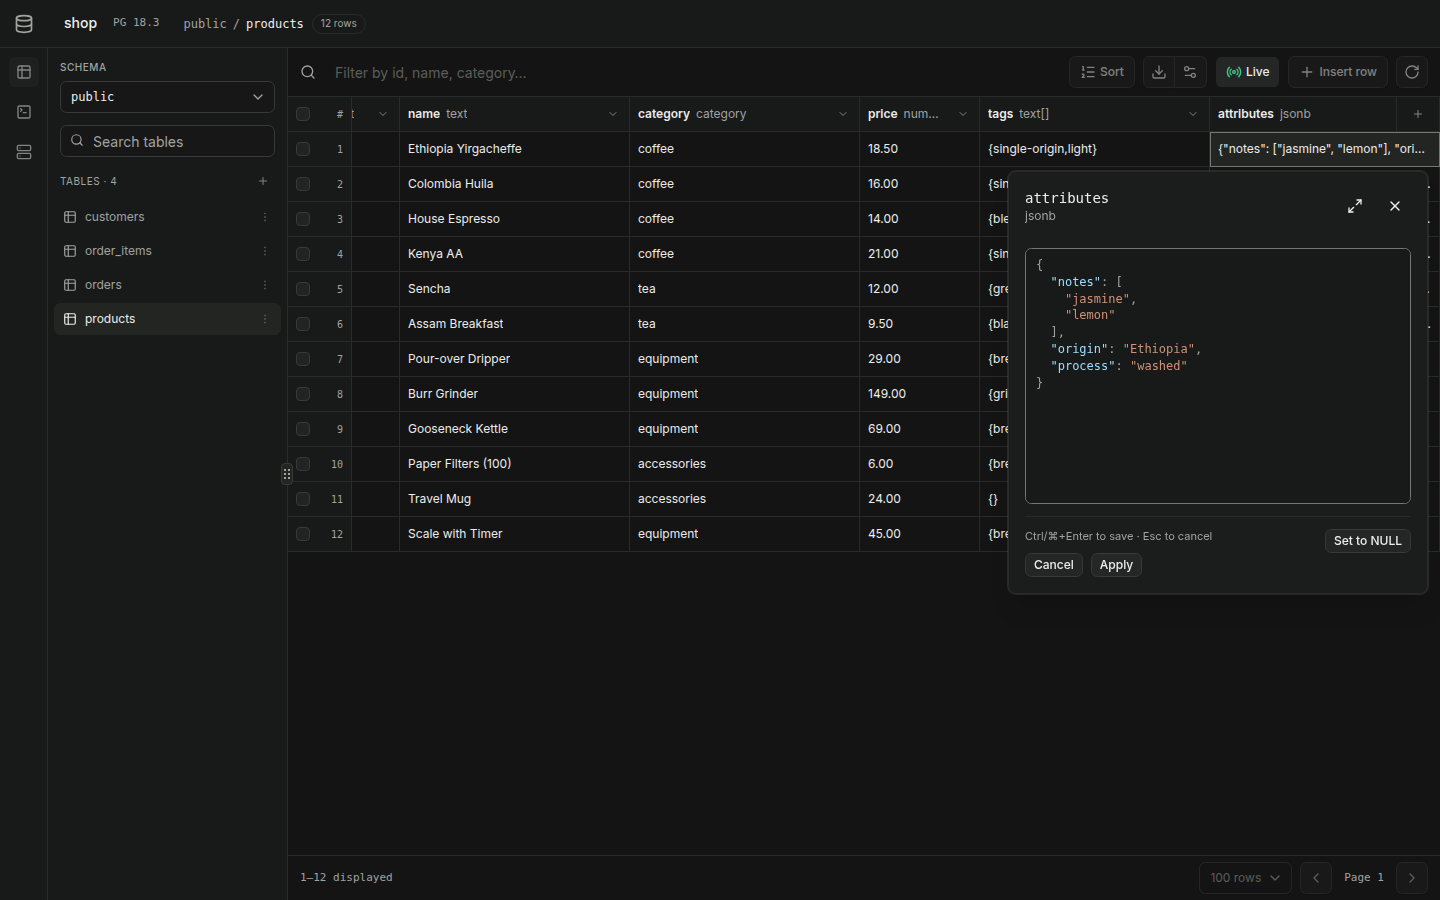
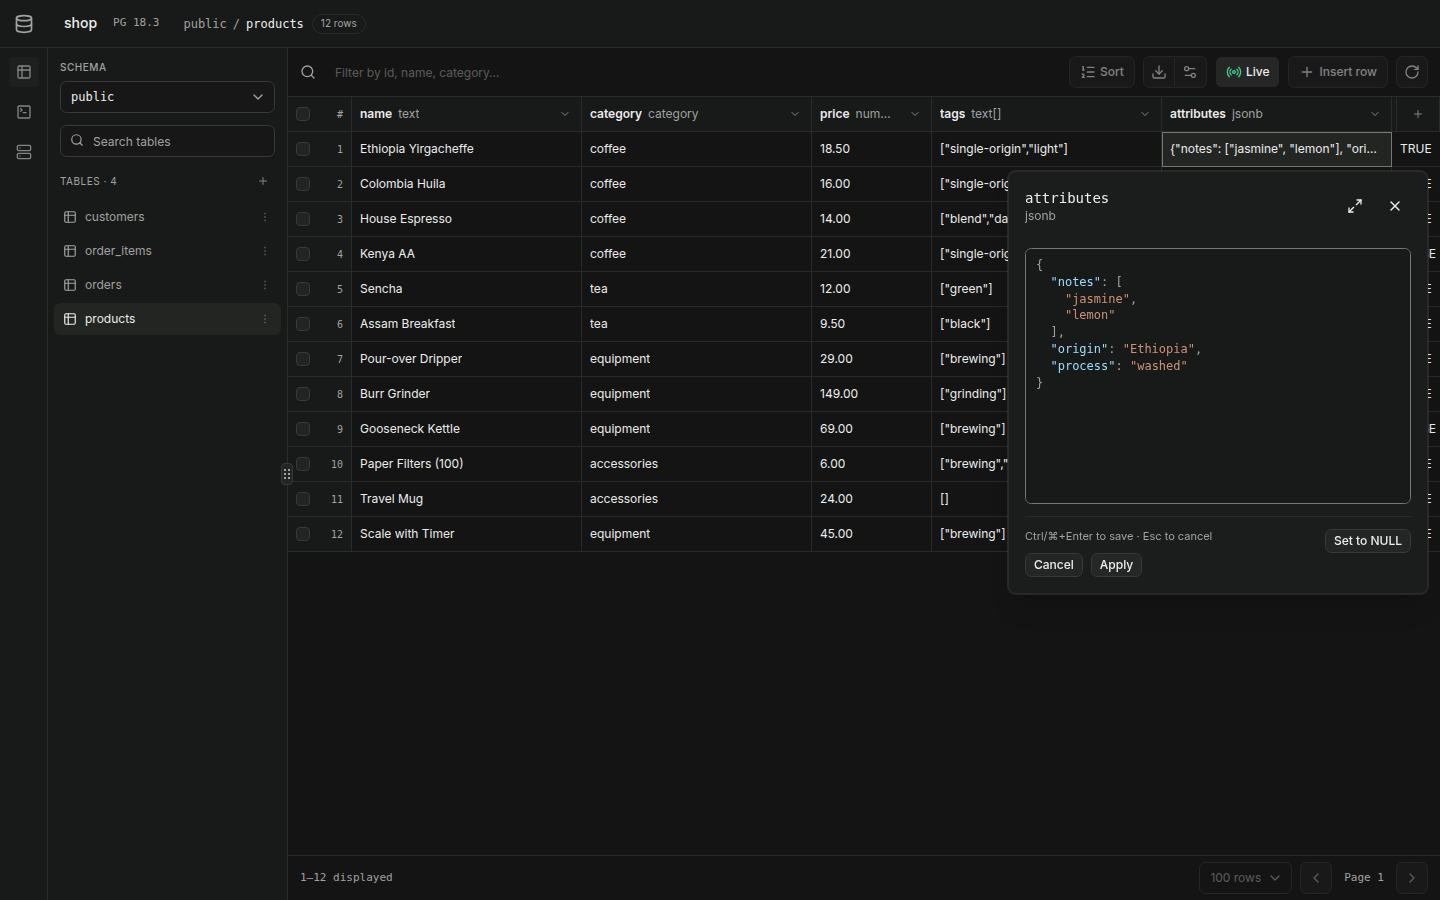
docs: refresh screenshots, add schema diagram, tidy changelog

diff --git a/PLAN.md b/PLAN.md
@@ -12,17 +12,18 @@ PostgreSQL validates. Keep code and tests minimal.
 
 ## Done
 
-- Table editor: exact values, cell/range/paste edits with optimistic row-version conflicts,
-  insert form, FK picker/navigation, filters, multi-sort, live polling, CSV export.
+- Table editor: exact values (arrays shown/edited as JSON), cell/range/paste edits with optimistic
+  row-version conflicts, insert form, FK picker/navigation, filters, multi-sort, live polling, CSV export.
 - Schema editing via previewed SQL: tables, columns, PK, indexes, UNIQUE/CHECK/FK.
 - SQL console with per-tab sessions, transactions, cancel, autosaved draft; snippet library with
   favourites and built-in examples (adapted from Supabase Studio, Apache-2.0).
-- Database workspace: schema diagram, all indexes (drop), query performance (pg_stat_statements), extensions (enable/update/disable) and curated
-  database/role defaults, as previewed SQL.
+- Database workspace: schema diagram, all indexes (drop), query performance (pg_stat_statements),
+  extensions (enable/update/disable) and curated database/role defaults, as previewed SQL.
+- Layout: left rail with three workspaces sharing one resizable side panel.
 - CLI: `npx|bunx @xl0/superbase [url] [--port] [--host] [--no-open]` (unscoped name rejected by npm).
 - Live demo: static build with PGlite in the browser on sample data (GitHub Pages).
 - Releases: `bun run release` → CI stages npm (2FA approve), pushes ghcr.io/xl0/superbase and
-  xl0xl0/superbase images, and creates the GitHub Release. 0.1.1 shipped this way.
+  xl0xl0/superbase images, creates the GitHub Release and redeploys the demo.
 - Connections: global server connection, saved browser profiles, SSL modes, locked mode via
   `DATABASE_URL`, `HOST`/`ORIGIN` for container deployments.
 - Simplification pass (Oct 2026): removed per-browser sessions, validation layer, DDL

diff --git a/README.md b/README.md
@@ -100,6 +100,8 @@ only loads its text; nothing runs until you press Run.
 
 ## Database
 
+The side panel lists the sections:
+
 - **Schema:** a diagram of one schema's tables and foreign keys (including references to other
   schemas); ↗ opens a table.
 - **Indexes:** every index per schema, with definitions; drop with a preview.
@@ -107,6 +109,8 @@ only loads its text; nothing runs until you press Run.
   cache hit rates; enables the extension for you if it's missing (the server must preload it).
 - **Extensions:** enable (choosing the schema), update or disable.
 - **Configuration:** search_path, timezone, timeouts and work_mem as database or role defaults.
+
+![Schema diagram of the shop tables](https://raw.githubusercontent.com/xl0/superbase/master/docs/screenshots/schema-diagram.png)
 
 ![Query performance](https://raw.githubusercontent.com/xl0/superbase/master/docs/screenshots/performance.png)
 

diff --git a/CHANGELOG.md b/CHANGELOG.md
@@ -5,12 +5,13 @@
 ### Added
 
 - A live demo that runs PostgreSQL in the browser (PGlite) on sample data, published to GitHub Pages.
-
 - Schema diagram (Database → Schema): tables, columns and foreign keys of one schema, laid out automatically; ↗ opens a table.
 
 ### Changed
 
 - Array values are shown and edited as JSON (`["a","b"]`), like Supabase; numbers keep their exact spelling.
+- Database sections (schema, indexes, performance, extensions, configuration) moved from top tabs into the side panel.
+- The SQL editor's snippet panel is resizable; all workspaces share one side panel width.
 
 ## [0.1.1] - 2026-10-25
 
